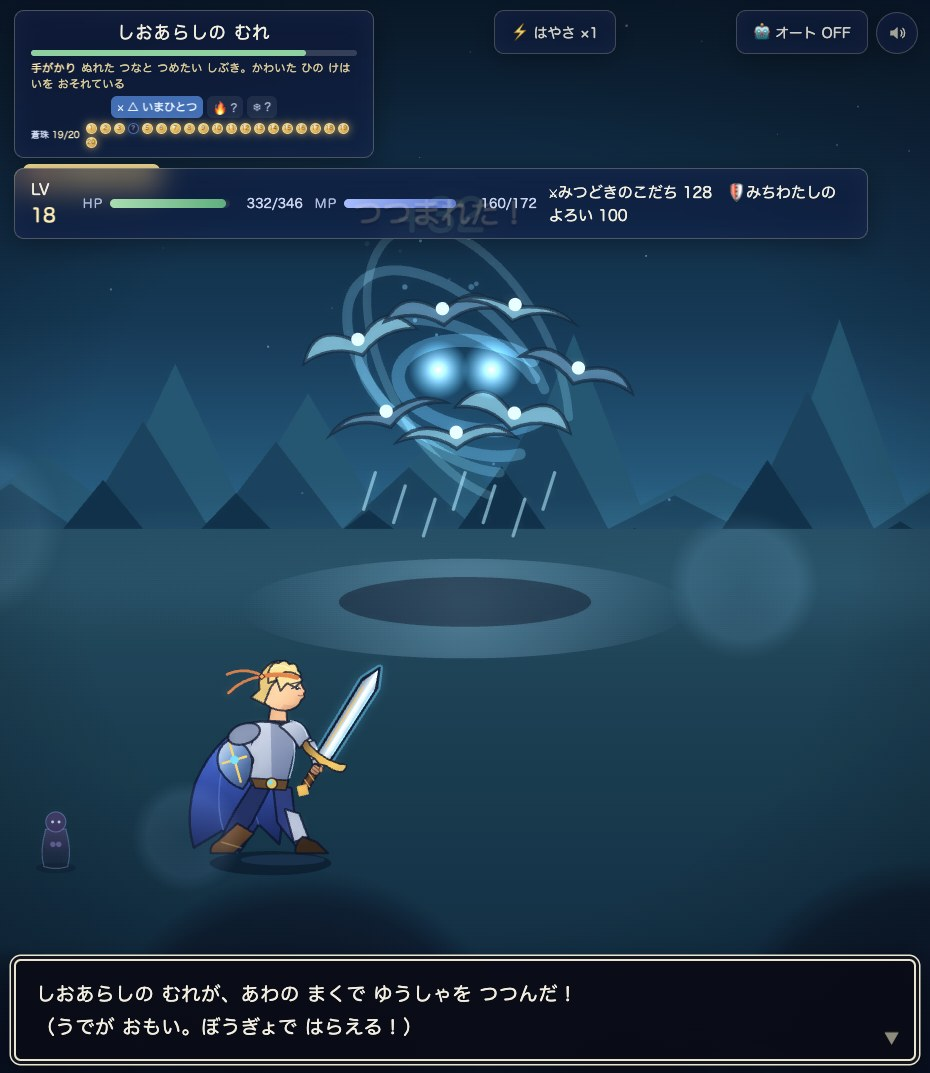
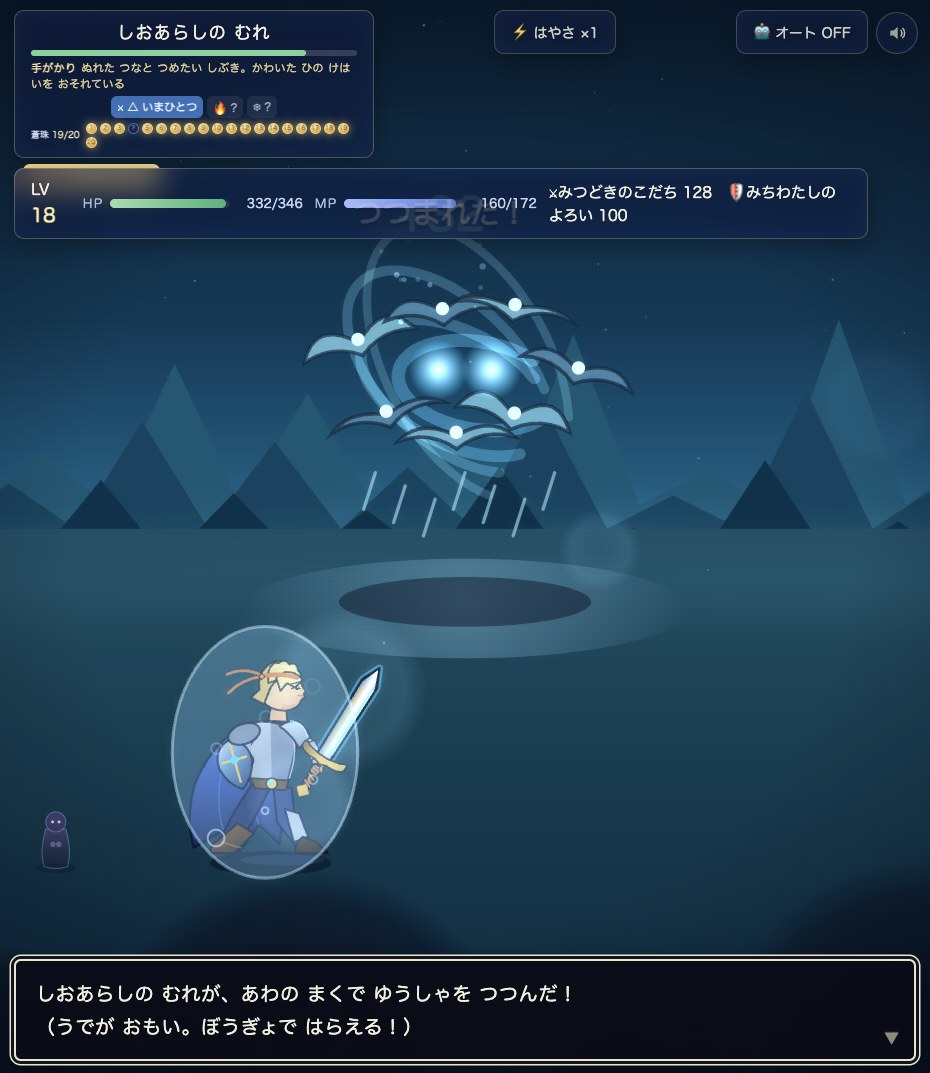
配信 v20260806_1956: ぬしの くせ 第2弾に 絵を つける

Changed region(s): [[0.1871, 0.5843, 0.4054, 0.8304]]

diff --git a/shima/index.html b/shima/index.html
@@ -22,10 +22,10 @@
 </style></head><body>
 <header>
 <h1>しまが かわる</h1>
-<p class="sub">はん <b>20260806_1847</b>（配信中）</p>
+<p class="sub">はん <b>20260806_1956</b>（配信中）</p>
 </header>
 
-<a class="go" href="../rpg.html?v=20260806_1847">▶ ゲームを ひらく</a>
+<a class="go" href="../rpg.html?v=20260806_1956">▶ ゲームを ひらく</a>
 <a class="go" href="../guide/" style="background:#241f30;border-color:#5a4a78;color:#e6d8ff">📖 攻略の書を ひらく<span style="display:block;font-size:13px;font-weight:normal;color:#b3a5cf;margin-top:4px">画面の 金の帯の ことばで 引ける ― 島の あそび方・まもの109体</span></a>
 
 <h2>★あたらしい: あつめのやかた・あらしのよる の ぬしが、たたかいでも しまの わざを つかいます</h2>
@@ -34,7 +34,7 @@
 <figure><img src="kuse_box.jpg" alt="やかたの ぬしが はこを つみあげた"><figcaption>あつめのやかた（「めのまえに はこを つみあげた！」）</figcaption></figure>
 <figure><img src="kuse_foam.jpg" alt="あらしの ぬしが あわの まくで つつんだ"><figcaption>あらしのよる（「あわの まくで ゆうしゃを つつんだ！」）</figcaption></figure>
 </div>
-<p class="note"><b>まだ できていないこと</b>：いまは <b>ことばだけ</b>で、つみあがった はこや あわの まくの <b>絵は 出ていません</b>。つぎで 絵を つけます。ときかさねの ぬしにも つけようとしましたが、その しまの たたかいは「三つの すがた」を 順に 見せる しくみを もっていて、手番を うばう わざを 入れると こわれました（実測して 外しました）。</p>
+<p class="note"><b>絵も つきました</b>（19:56）——つみあがった <b>はこ</b>と、勇者を つつむ <b>あわの まく</b>が、たたかいの 画面に 出ます。しまで 見たのと <b>おなじ 絵</b>です（はこ＝なわで しばった 茶いろの 箱、すきまから 光が もれる／まく＝水いろの 楕円に あわの つぶが のぼる）。<br><b>はこは 2だん</b>です。3だんに したら <b>ぬしの かんむりと 目しか 見えなくなり</b>、だれと たたかっているのか わからなくなったので 下げました。<br>ときかさねの ぬしにも つけようとしましたが、その しまの たたかいは「三つの すがた」を 順に 見せる しくみを もっていて、手番を うばう わざを 入れると こわれました（実測して 外しました）。</p>
 
 <h2>★あたらしい: しまで とられた ものが、たたかいに 出てきます（まえ／いま）</h2>
 <p class="note">これまで <b>しまの あそびは、たたかいを 1ミリも 変えていませんでした</b>。三つとも まもり切った子も、三つとも とられた子も、そのあとの たたかいは <b>まったく おなじ</b>。ちがったのは <b>はじまりの ひとことだけ</b>でした。<br><b>くらのしま</b>から 直しはじめました。しまで とられた ものは <b>ふくろに 入ったまま</b> たたかいへ 来て、<b>さいしょの ひと手で 名まえを よばれて 出てきます</b>。<br>・<b>おられた かみ</b>（てがみ）＝ひらいて よみあげる → じゅもんが つかえなくなる<br>・<b>ひとつの はな</b>＝かざす → あいての きずが すこし ふさがる<br>・<b>ちいさな ともしび</b>（わらい）＝ともす → どうぐが つかえなくなる<br><b>三つとも まもり切れば、ふくろは 空っぽ</b>——ひとつも 出てきません。しまで あそんでいなければ、これまでと まったく おなじです。<br>どれも <b>⚔こうげき 2かいで ふくろを やぶって とりかえせます</b>。ふつうに あそんで <b>60かい たたかって 60かい 勝ちました</b>（たたかいの ながさも 変わっていません）。</p>
@@ -310,7 +310,7 @@
 <img src="ipad2.jpg" alt="iPad縦 2/3">
 <img src="ipad3.jpg" alt="iPad縦 3/3">
 
-<a class="go" href="../rpg.html?v=20260806_1847">▶ ゲームを ひらく</a>
+<a class="go" href="../rpg.html?v=20260806_1956">▶ ゲームを ひらく</a>
 
 <h2>★あたらしい: くらのしまに あたらしい あそび「ぬすみと はたき」</h2>
 <p class="note"><b>ぬしの「しまいこむもの」が、戦う まえから うごきだします。</b>

diff --git a/rpg.html b/rpg.html
@@ -18736,7 +18736,7 @@ async function playerAction(act){
       sfxHit();shakeBattle(8,0.3);
       const epB=enemyPos();puff(epB.x,epB.y-epB.s*10,'rgba(200,160,64,.9)',16,160,0.7,{s0:2,s1:5});
       popup(epB.x,epB.y-epB.s*40,'くずれた！','sp');
-      await say('はこが こうげきを うけとめた！——が、その はこも くずれおちた。\nひとりじめのものが むきだしに なった！');
+      await say('つみあげた はこが こうげきを うけとめ、いっせいに くずれおちた！\nひとりじめのものが むきだしに なった！');
       return;
     }
     let d;
@@ -21279,6 +21279,7 @@ function drawBattleScene(){
   if(bt.foe.boss)bossBack(bt,ep);
   if(bt.foe.tint||bt.blink>0)drawFoeTinted(bt,ep);
   else drawFoe(bt,ep);
+  drawKuseBox(bt,ep); // つみあげ(章17): はこの塔は ぬしの まえ=こうげきを うけとめる位置
   drawEnemyStrikeFx(bt,ep,'trail');
   if(bt.critShock)drawCritShock(bt.critShock.t,ep); // 大リングは勇者の後ろ、剣先の衝突光は前へ
   if(!(bt.mateHit>0))drawMateBattle(bt);
@@ -21288,10 +21289,52 @@ function drawBattleScene(){
   if(bt.slash)drawSlash(bt.slash,ep,bt.heroBlade);
   if(bt.spellFx)drawSpellFx(bt.spellFx,ep);
   drawP();
+  drawKuseFoam(bt); // つつみ(章18): あわの膜は 勇者の まえ=つつまれて いるのが 見える
   drawBattleFore(th.bokeh);
   ctx.restore();
   if(bt.foe.boss)bossFront(bt);
   drawVignette();
+}
+// ===== ぬしの くせ 第2弾の 絵(SPEC_nushi_kuse2_20260806 §10-4) =====
+// ことばだけでは 子どもに とどかない。**島と 同じ 絵の ことば**を 戦いの 画面へ:
+// はこ=茶の箱+こげ茶の輪郭+なわの縦線+すきまの 光の帯(島の shimaPlayDrawTsumi の boxDraw と 同じ)
+// 膜=水色の 楕円+脈動する ふち+下から 上へ ながれる 泡粒(島の shimaPlayDrawMamori の 膜と 同じ)
+// 勾配は つかわない(描画負荷の掟)。どちらも 深さ±0(save/restore の 対)。
+function drawKuseBox(bt,ep){ // つみあげ(章17): ぬしの まえに つみあがった はこの塔
+  if(!(bt.kuseBox>0))return;
+  ctx.save();
+  const s=ep.s,py=ep.y+s*108,t=bt.t||0;
+  const wob=Math.sin(t*3.2)*s*1.6; // かすかな ゆれ=まだ 立っている
+  // ★3だんでは ぬしの 顔が 隠れた(実画面で 王冠と 目しか 見えなかった=誰と 戦っているか わからない)。
+  //   2だんに 下げて「はこの かべごしに ぬしが 見える」高さへ(2026-08-06)
+  for(let j=0;j<2;j++){ // ⚔1回で いっせいに くずれる
+    const w=s*(134-j*16),h=s*44,x=ep.x+wob*(j+1)*0.35,y=py-j*s*42;
+    ctx.fillStyle='rgba(96,72,40,0.95)';
+    ctx.fillRect(x-w/2,y-h,w,h);
+    ctx.strokeStyle='rgba(46,32,18,0.90)';ctx.lineWidth=2.5;
+    ctx.strokeRect(x-w/2,y-h,w,h);
+    ctx.strokeStyle='rgba(214,178,120,0.80)';ctx.lineWidth=2.5; // なわ
+    ctx.beginPath();ctx.moveTo(x,y-h-2);ctx.lineTo(x,y+2);ctx.stroke();
+    ctx.fillStyle='rgba(255,214,110,0.72)'; // すきまから もれる 光
+    ctx.fillRect(x-w/2+3,y-3,w-6,3);
+  }
+  ctx.restore();
+}
+function drawKuseFoam(bt){ // つつみ(章18): 勇者を つつむ あわの 膜
+  if(!(bt.kuseFoam>0)||!bt.heroPos)return;
+  const hp=bt.heroPos,u=hp.u||1,t=bt.t||0;
+  ctx.save();
+  const rx=u*84,ry=u*114,cy=hp.y-u*96;
+  ctx.fillStyle='rgba(150,200,235,0.30)';
+  ctx.beginPath();ctx.ellipse(hp.x,cy,rx,ry,0,0,Math.PI*2);ctx.fill();
+  ctx.strokeStyle='rgba(210,238,255,'+(0.55+0.25*Math.sin(t*4.2)).toFixed(3)+')';ctx.lineWidth=3;
+  ctx.beginPath();ctx.ellipse(hp.x,cy,rx,ry,0,0,Math.PI*2);ctx.stroke();
+  for(let b=0;b<6;b++){ // 泡粒(下から 上へ ながれる)
+    const ba=((t*0.5+b*0.17)%1);
+    ctx.strokeStyle='rgba(226,244,255,'+(0.55*(1-ba)).toFixed(3)+')';ctx.lineWidth=2;
+    ctx.beginPath();ctx.arc(hp.x+Math.sin(b*2.1)*rx*0.6,cy+ry*0.72-ba*ry*1.45,Math.max(2,u*3+b),0,Math.PI*2);ctx.stroke();
+  }
+  ctx.restore();
 }
 // 敵の先端から固定した接触点までを、背面の速度線と前面の結果火花に分けて描く。
 // Math.random は使わず、演出がダメージ乱数へ干渉しないようにする。

diff --git a/index.html b/index.html
@@ -39,11 +39,11 @@ a.btn:active{background:rgba(255,255,255,.11)}
  <h1>蒼の勇者</h1>
  <p class="sub">二十一の章と、八つの島と、百九のまもの。<br>ブラウザだけで あそべます。</p>
 
- <a class="btn play" href="./rpg.html?v=20260806_1847"><b>▶ ゲームを はじめる</b><span>つづきから／さいしょから</span></a>
+ <a class="btn play" href="./rpg.html?v=20260806_1956"><b>▶ ゲームを はじめる</b><span>つづきから／さいしょから</span></a>
  <a class="btn" href="./guide/"><b>📖 攻略の書</b><span>画面の 金の帯の ことばで 引ける ― 三十六の ばしょ・島の あそび方・まもの図鑑</span></a>
  <a class="btn" href="./shima/"><b>🏝 しまの あそび</b><span>直したところの「まえ／いま」の 写真</span></a>
 
- <div class="foot"><a href="./rpg.html?v=20260806_1847">版 20260806_1847</a></div>
+ <div class="foot"><a href="./rpg.html?v=20260806_1956">版 20260806_1956</a></div>
 </main>
 </body>
 </html>
